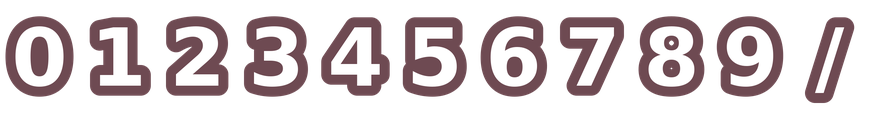
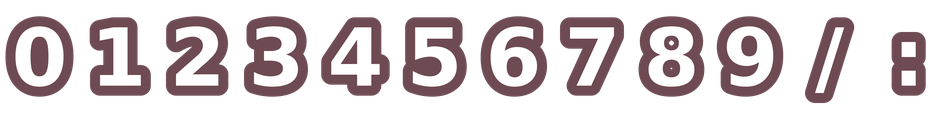
feat(fases): adiciona tempo da fase no canto superior esquerdo

diff --git a/core/src/main/java/br/mackenzie/Main.java b/core/src/main/java/br/mackenzie/Main.java
@@ -25,7 +25,7 @@
         // A câmera fica parada na vertical; só o cenário anda na horizontal.
         private static final float CAMERA_Y = 0.75f;
         private static final float LARGURA_BARRA = 0.5f;
-        private static final float ALTURA_BARRA = 3.5f;
+        private static final float ALTURA_BARRA = 3.3f;   // um pouco mais baixa, para não encostar no tempo
 
         // ==================================================================
         // CONTROLE PELA FORÇA (sensor / ESPAÇO)
@@ -100,7 +100,16 @@
         private static final float TEXTO_CONTADOR_CENTRO_X = 1.0f;  // centro do texto, medido da borda esquerda do painel
         private static final float ALTURA_NUMERO = 0.3625f;
         private static final float ESPACAMENTO_NUMERO = 0.9f;       // 1 = células encostadas; menor = mais juntas
-        private static final String CARACTERES_CONTADOR = "0123456789/";
+        private static final String CARACTERES_CONTADOR = "0123456789/:";
+
+        // ---- Tempo da fase (canto superior esquerdo, só nas fases) ----
+        private static final float PAINEL_TEMPO_X = 0.0625f;
+        private static final float PAINEL_TEMPO_Y = 3.9f;
+        private static final float PAINEL_TEMPO_W = 1.3125f;
+        private static final float PAINEL_TEMPO_H = 0.575f;
+        private static final float TEXTO_TEMPO_CENTRO_X = 0.85f;    // centro do texto, medido da borda esquerda do painel
+        private static final float ALTURA_NUMERO_TEMPO = 0.30f;
+        private static final float ESPACAMENTO_NUMERO_TEMPO = 0.75f;
 
         private final ForceInput entradaForca;
         private Estado estado = Estado.MENU;
@@ -138,8 +147,9 @@
         private Texture texSomLigado;
         private Texture texSomDesligado;
         private Texture texPainelContador;
+        private Texture texPainelTempo;
         private Texture texNumerosContador;
-        private final TextureRegion[] regNumeros = new TextureRegion[11];
+        private final TextureRegion[] regNumeros = new TextureRegion[12];   // 0-9, / e :
         private Texture texLuzMagica;
         private Texture texFadaParada;
         private Texture texFadaRegando;
@@ -156,6 +166,7 @@
 
         // ---- Cenário rolando ----
         private float deslocamento = 0f;    // quanto o cenário já andou (unidades do mundo)
+        private float tempoFase = 0f;       // segundos jogados na fase (para na pausa)
 
         // ---- Flores da fase atual ----
         private Texture[] texFloresMortas;  // uma imagem por flor
@@ -203,8 +214,9 @@
             texSomLigado = carregar("SomLigado.png");
             texSomDesligado = carregar("SomDesligado.png");
             texPainelContador = carregar("PainelContador.png");
+            texPainelTempo = carregar("PainelTempo.png");
             texNumerosContador = carregar("NumerosContador.png");
-            // A imagem tem 11 células do mesmo tamanho: 0 1 2 3 4 5 6 7 8 9 /
+            // A imagem tem 12 células do mesmo tamanho: 0 1 2 3 4 5 6 7 8 9 / :
             int larguraCelula = texNumerosContador.getWidth() / regNumeros.length;
             for (int i = 0; i < regNumeros.length; i++) {
                 regNumeros[i] = new TextureRegion(texNumerosContador, i * larguraCelula, 0,
@@ -380,6 +392,8 @@
                 }
                 return;
             }
+
+            tempoFase += delta;   // para quando a última flor desperta (conclusaoPendente)
 
             // Rega: a Lumi está tocando a luz de alguma flor seca?
             tocandoLuz = false;
@@ -620,6 +634,7 @@
             desenharFada();
             lote.draw(texBotaoPausar, 0, 0, LARGURA_MUNDO, ALTURA_MUNDO);
             desenharContadorFlores(florRecuperada.length, floresRecuperadas());
+            desenharTempo();
             lote.end();
 
             desenharProgressoRega();
@@ -644,23 +659,40 @@
         // Plaquinha com a flor e o placar "regadas / total".
         // Coordenadas de tela (não rola com o cenário). Chamar dentro de lote.begin()/end().
         // Só é chamado em desenharFase(): não aparece no menu nem nas telas de conclusão.
+        // Escreve um texto com os números desenhados (0-9, / e :), centralizado em (centroX, centroY).
+        // Chamar dentro de lote.begin()/end().
+        private void desenharTexto(String texto, float centroX, float centroY, float altura, float espacamento) {
+            TextureRegion modelo = regNumeros[0];
+            float larguraNumero = altura * modelo.getRegionWidth() / modelo.getRegionHeight();
+            float avanco = larguraNumero * espacamento;
+            float larguraTexto = avanco * (texto.length() - 1) + larguraNumero;
+            float x = centroX - larguraTexto / 2f;
+            float y = centroY - altura / 2f;
+            for (int i = 0; i < texto.length(); i++) {
+                int indice = CARACTERES_CONTADOR.indexOf(texto.charAt(i));
+                if (indice >= 0) {
+                    lote.draw(regNumeros[indice], x + i * avanco, y, larguraNumero, altura);
+                }
+            }
+        }
+
+        // Plaquinha com relógio e o tempo da fase (m:ss), no canto superior esquerdo. Só nas fases.
+        private void desenharTempo() {
+            lote.draw(texPainelTempo, PAINEL_TEMPO_X, PAINEL_TEMPO_Y, PAINEL_TEMPO_W, PAINEL_TEMPO_H);
+            int segundos = (int) tempoFase;
+            String texto = (segundos / 60) + ":" + (segundos % 60 < 10 ? "0" : "") + (segundos % 60);
+            desenharTexto(texto, PAINEL_TEMPO_X + TEXTO_TEMPO_CENTRO_X,
+                    PAINEL_TEMPO_Y + PAINEL_TEMPO_H / 2f, ALTURA_NUMERO_TEMPO, ESPACAMENTO_NUMERO_TEMPO);
+        }
+
         private void desenharContadorFlores(int total, int regadas) {
             lote.draw(texPainelContador, PAINEL_CONTADOR_X, PAINEL_CONTADOR_Y,
                     PAINEL_CONTADOR_W, PAINEL_CONTADOR_H);
 
-            String texto = regadas + "/" + total;
-            TextureRegion modelo = regNumeros[0];
-            float larguraNumero = ALTURA_NUMERO * modelo.getRegionWidth() / modelo.getRegionHeight();
-            float avanco = larguraNumero * ESPACAMENTO_NUMERO;
-            float larguraTexto = avanco * (texto.length() - 1) + larguraNumero;
-            float x = PAINEL_CONTADOR_X + TEXTO_CONTADOR_CENTRO_X - larguraTexto / 2f;
-            float y = PAINEL_CONTADOR_Y + PAINEL_CONTADOR_H / 2f - ALTURA_NUMERO / 2f;
-            for (int i = 0; i < texto.length(); i++) {
-                int indice = CARACTERES_CONTADOR.indexOf(texto.charAt(i));
-                if (indice >= 0) {
-                    lote.draw(regNumeros[indice], x + i * avanco, y, larguraNumero, ALTURA_NUMERO);
-                }
-            }
+            desenharTexto(regadas + "/" + total,
+                    PAINEL_CONTADOR_X + TEXTO_CONTADOR_CENTRO_X,
+                    PAINEL_CONTADOR_Y + PAINEL_CONTADOR_H / 2f,
+                    ALTURA_NUMERO, ESPACAMENTO_NUMERO);
         }
 
         // ------------------------------------------------------------------
@@ -749,6 +781,7 @@
             tempoVoo = 0f;
             tocandoLuz = false;
             deslocamento = 0f;
+            tempoFase = 0f;
             conclusaoPendente = false;
             configurarFlores(fase);
             musicaJardim.stop();
@@ -946,6 +979,7 @@
             texSomLigado.dispose();
             texSomDesligado.dispose();
             texPainelContador.dispose();
+            texPainelTempo.dispose();
             texNumerosContador.dispose();
             texMenu.dispose();
             texCenario.dispose();
